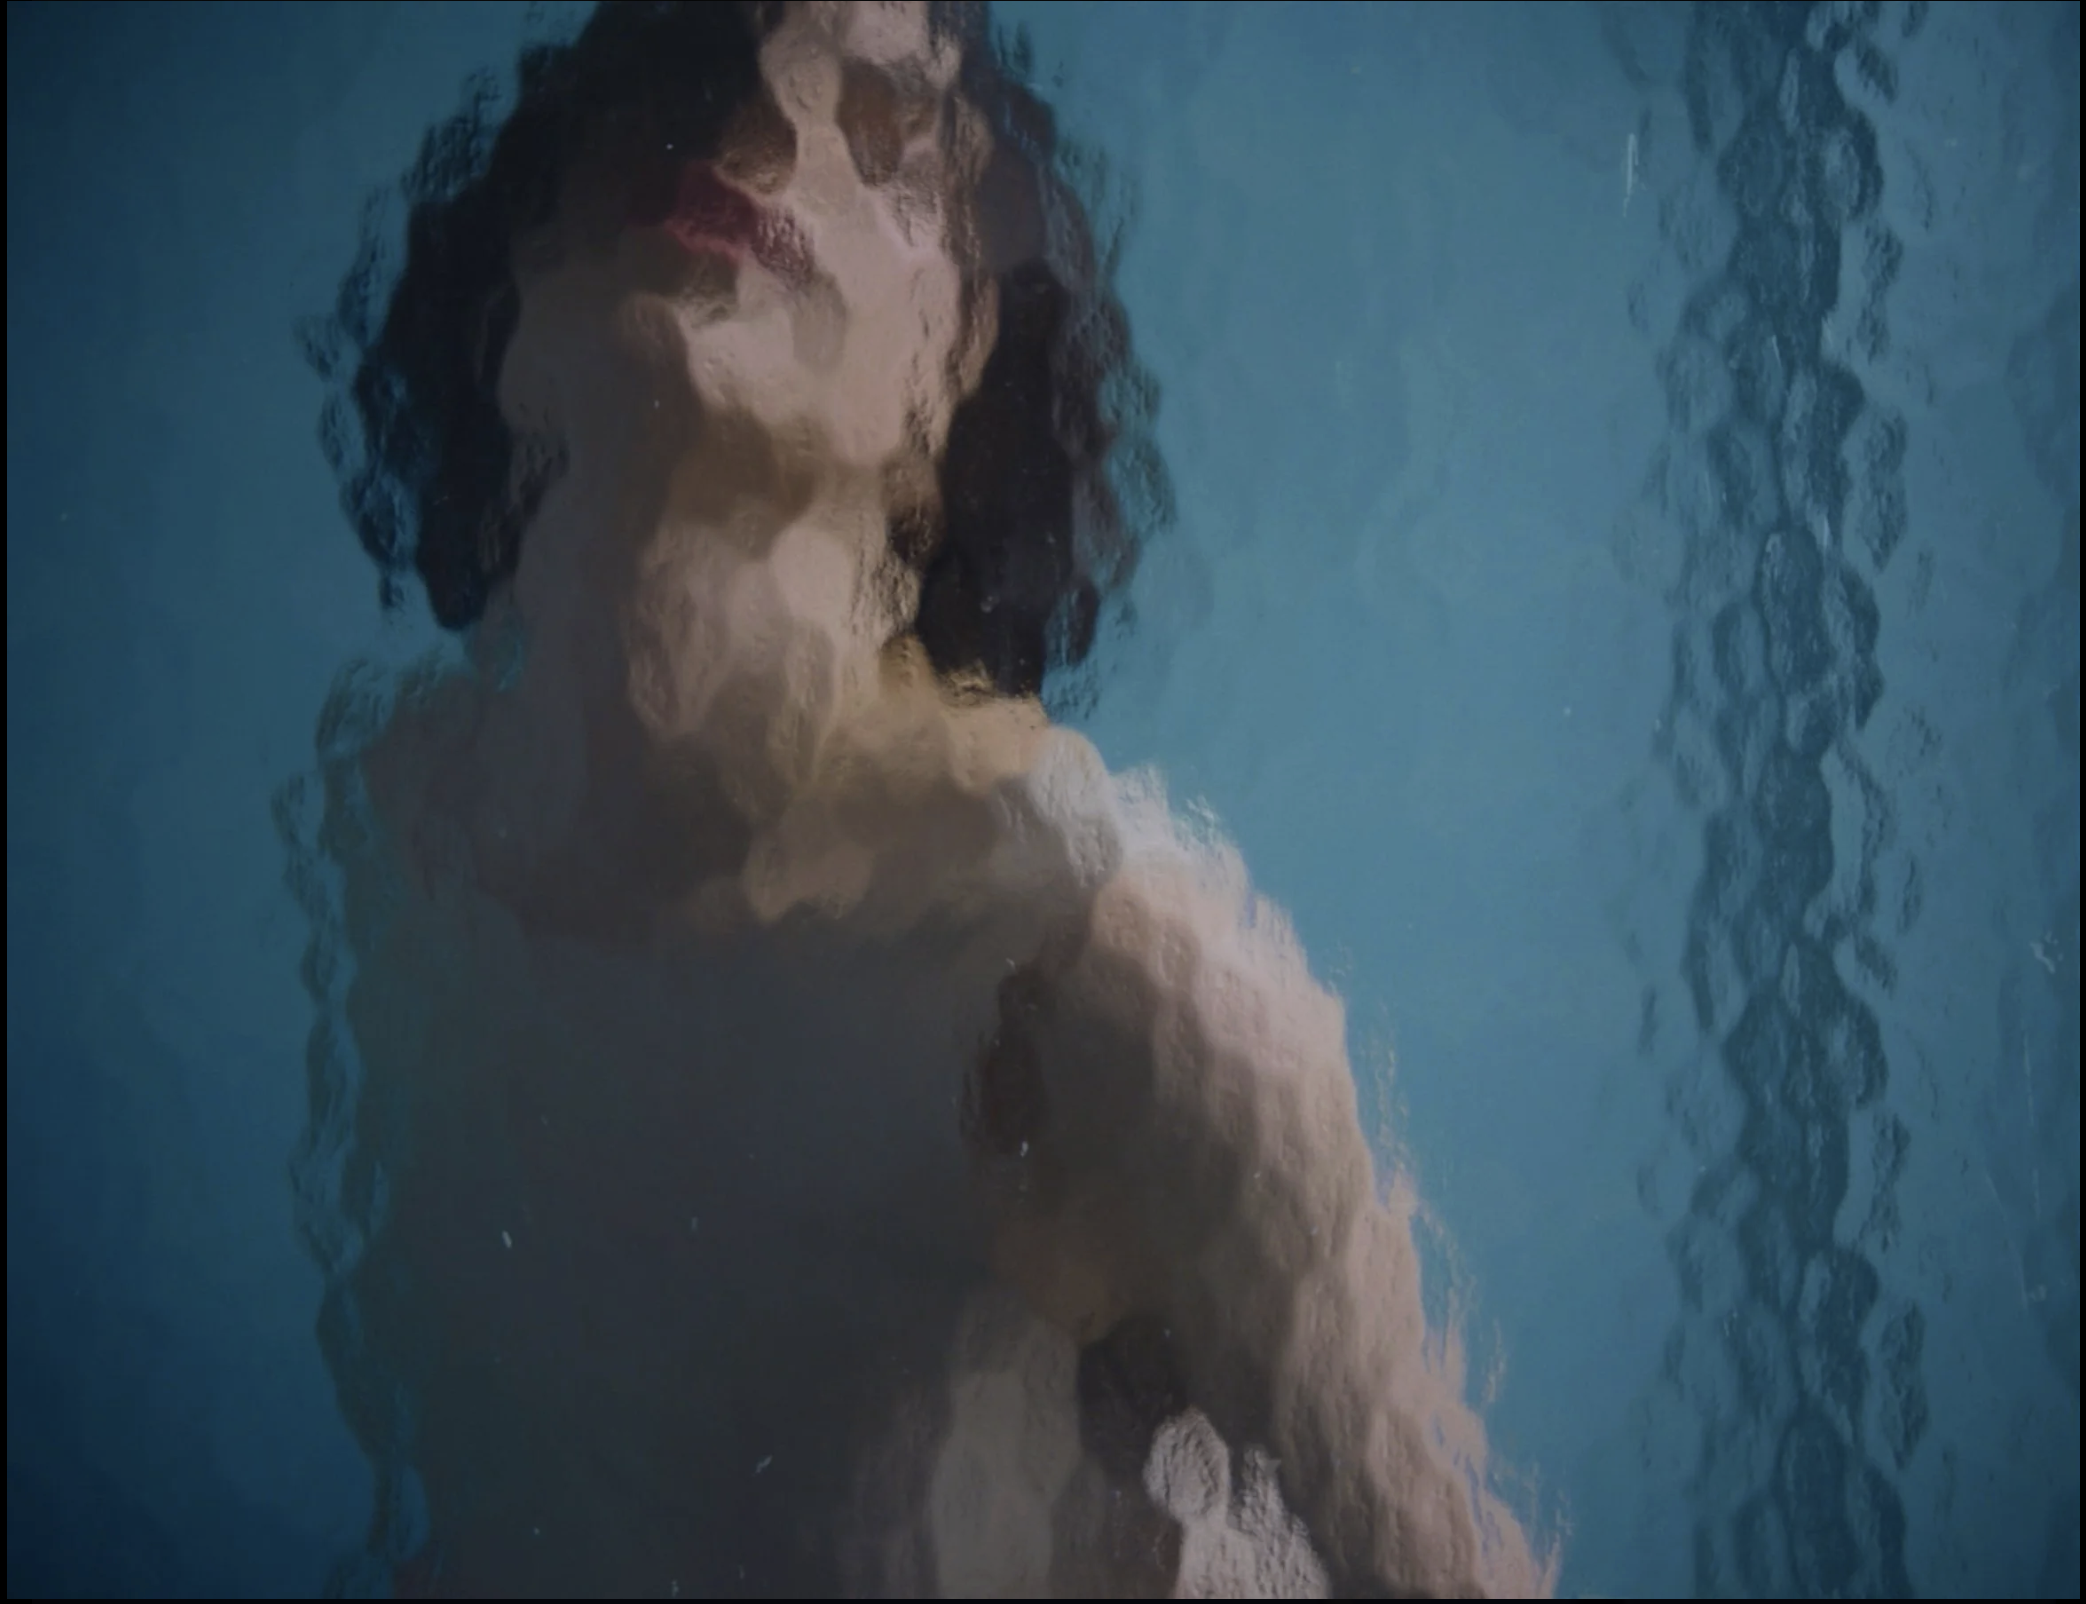
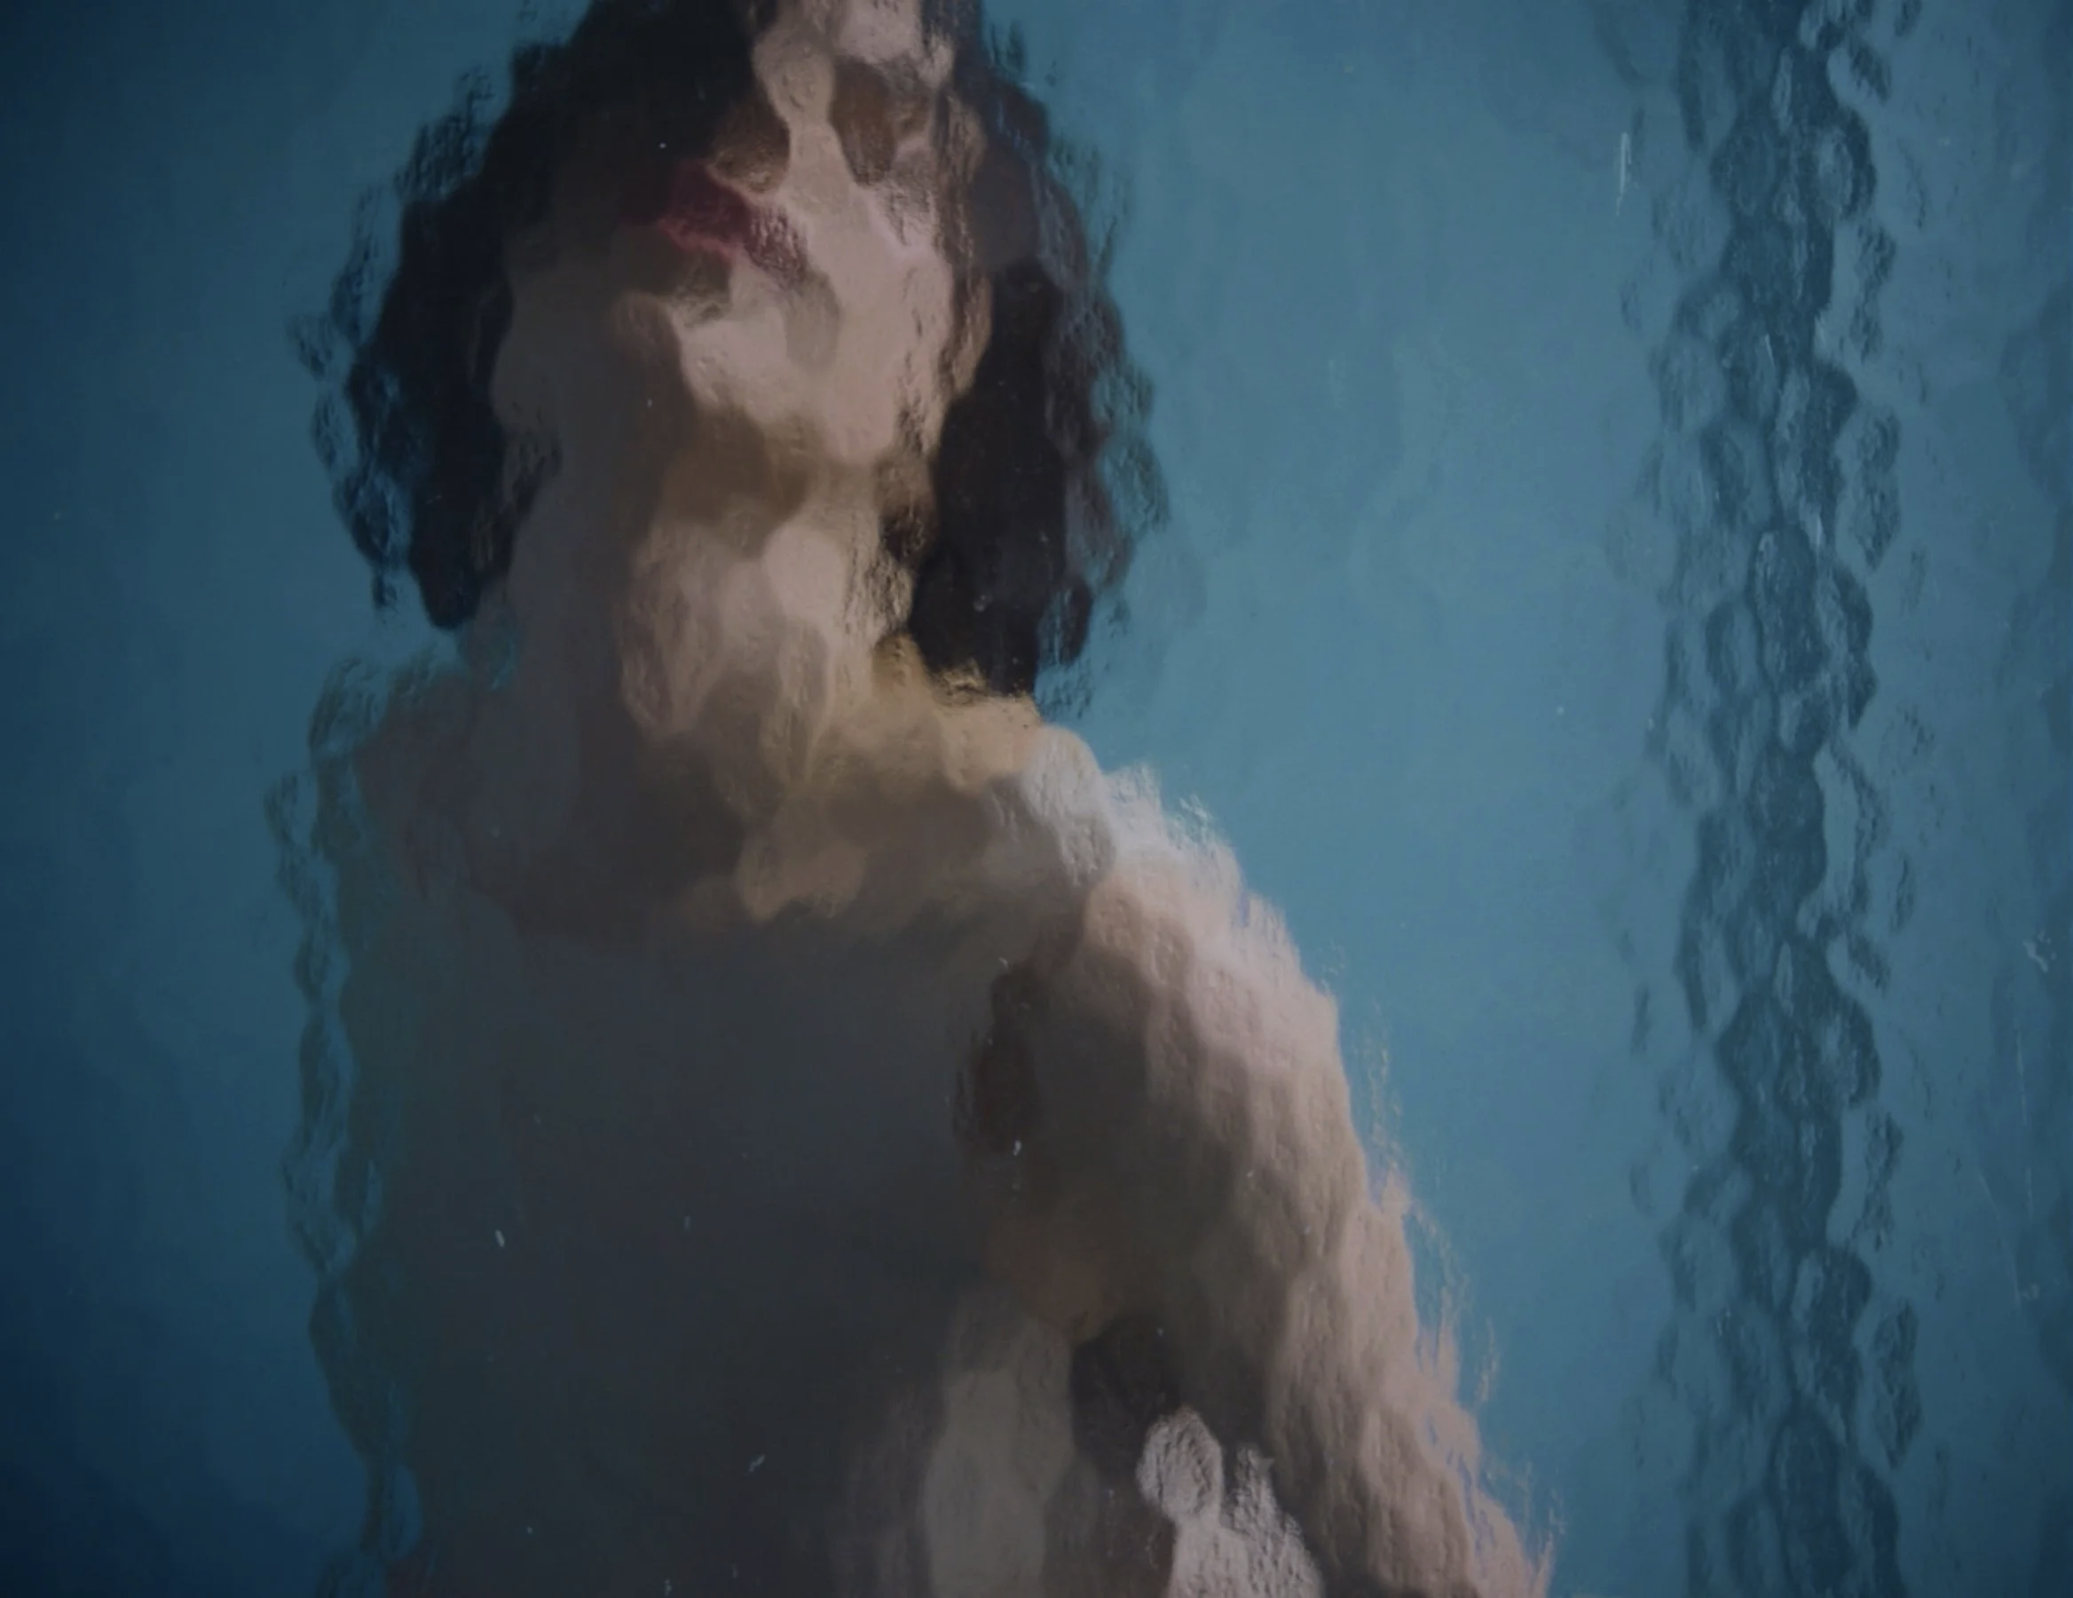
hero images fix

Changed region(s): [[0.0, 0.0, 1.0, 1.0]]

diff --git a/src/lib/sanity/seed-data.ts b/src/lib/sanity/seed-data.ts
@@ -217,6 +217,9 @@ export const SEED_DIRECTORS: Omit<Director, "_id">[] = [
 /**
  * Home hero frames — film stills shown full-bleed on `/`.
  * Real photography only — never use layout mockups here.
+ * Export without letterbox/pillarbox bars: on wide viewports
+ * `object-cover` keeps left/right edges visible, so black frame
+ * borders read as thin side lines on the home.
  */
 export const LOCAL_HERO_IMAGES: Hero["images"] = [
   {
